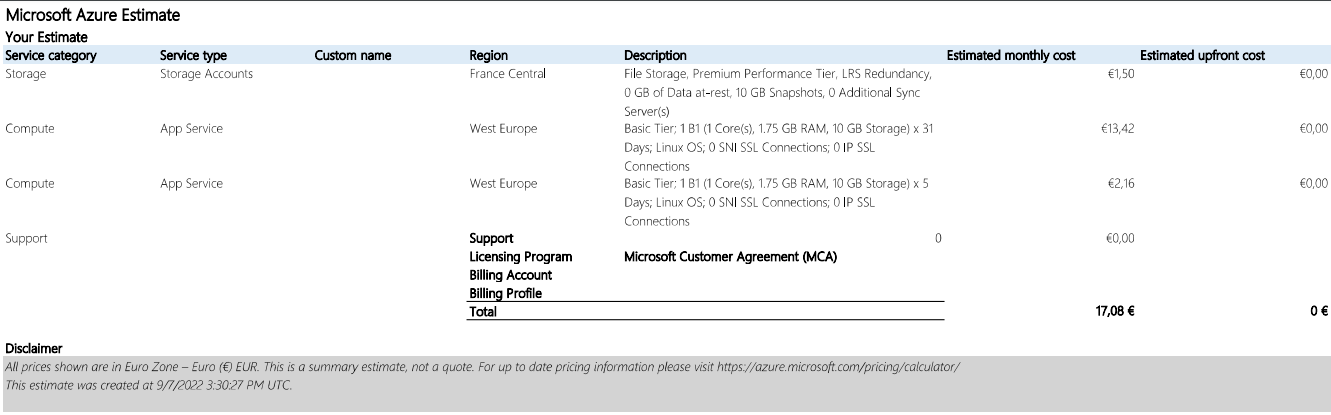
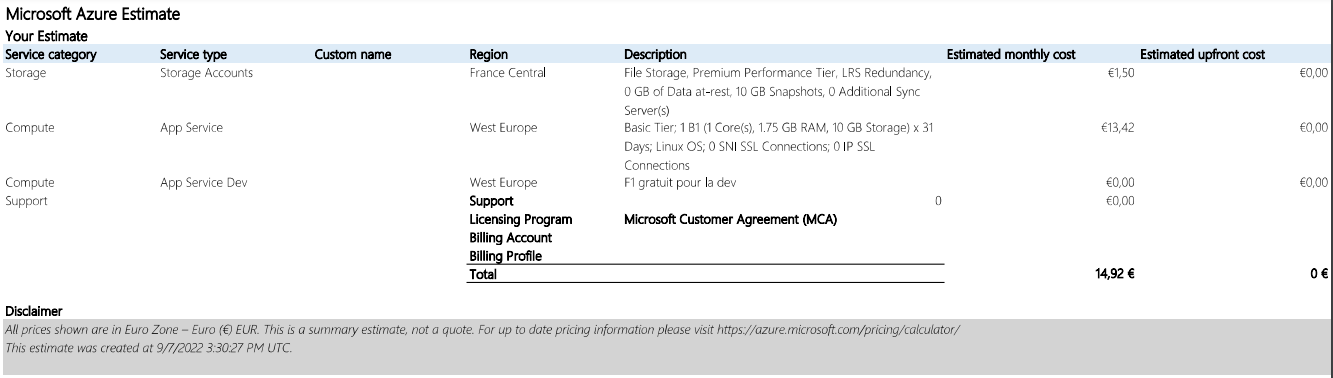
Avant dernières modifs

diff --git a/README.md b/README.md
@@ -14,7 +14,7 @@ Une fois le script terminé vous avez votre groupe de ressource, votre compte st
 
 ### Etape 3 Faire la fin des configurations sur le portail Azure.
 
-Vous allez finalisez les petites configurations qu'il manque au script.
+Vous allez finalisez les petites configurations comme lier l'image du conteneur au webApp.
 
 ### Etape 4 importer l'image du docker hub.
 
@@ -24,3 +24,5 @@ Vous allez finalisez les petites configurations qu'il manque au script.
 
 ### Voici l'archithecture réseau :
 [![Alt text](https://github.com/Psykali/G3-B10-AZetDocker-KCAB/blob/main/g3b10AzetDockerKCAB.drawio.png)](https://github.com/Psykali/G3-B10-AZetDocker-KCAB/blob/main/g3b10AzetDockerKCAB.drawio.png)
+
+### Voici le cout du projet 
